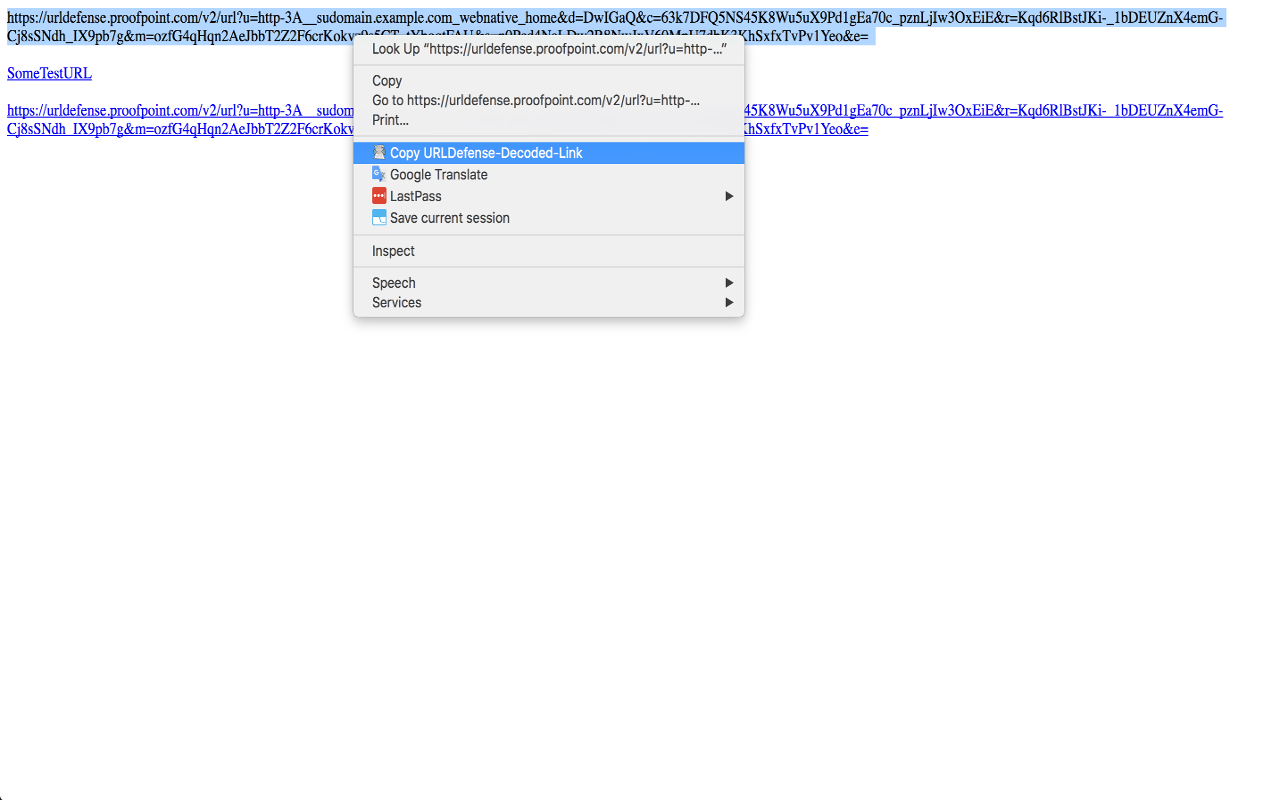
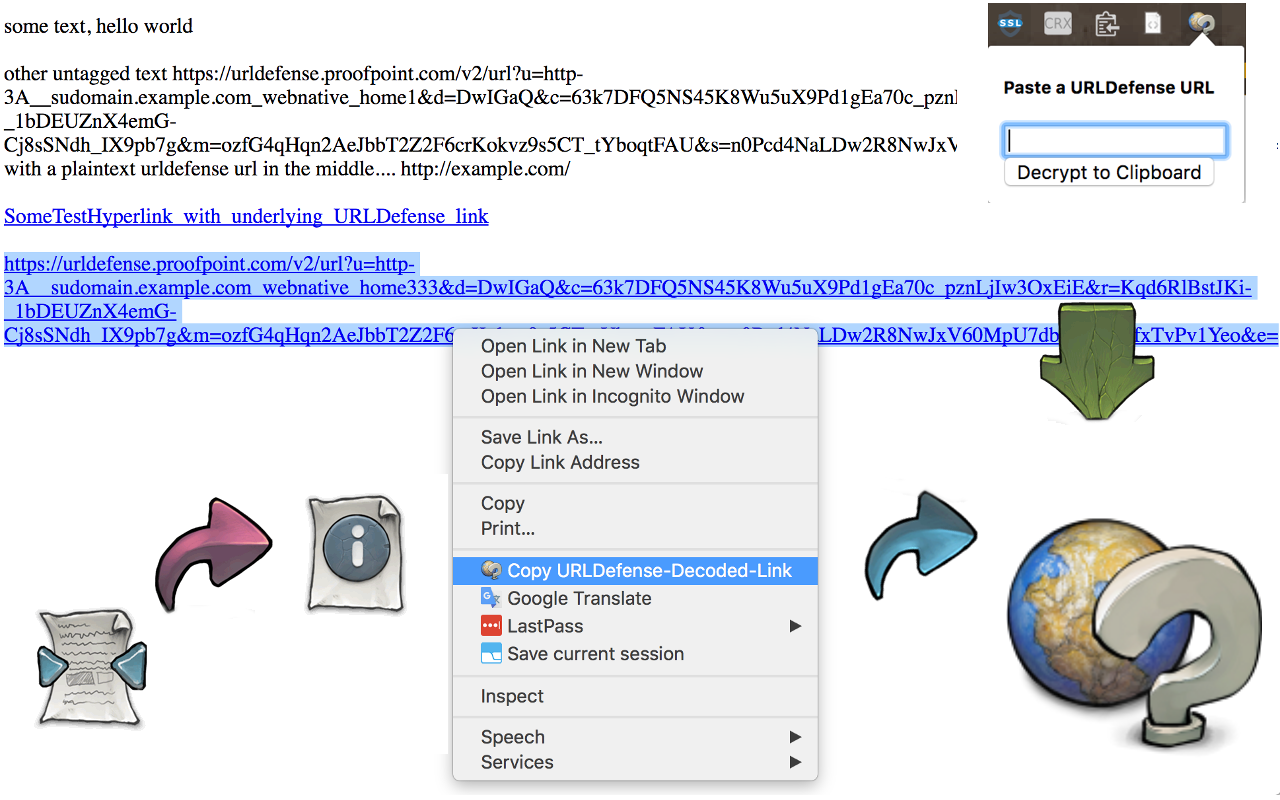
updated screenshots, made the readme shorter.

diff --git a/README.md b/README.md
@@ -4,13 +4,9 @@
 </div>
 
 ## Usage
-Right-Click a URLDefense encoded URL, or triple-click-select-all of a plaintext URLDefense URL, and right-click to get a Chrome Context Menu option called "Copy URLDefense-Decoded-Link". Click that menu item and the link will be copied to your clipboard.
+Right-Click a URLDefense encoded URL, or triple-click-select-all of a plaintext URLDefense URL, and right-click to get a Chrome Context Menu option called "Copy URLDefense-Decoded-Link". Click that menu item and the link will be copied to your clipboard. Or you can also manually paste encoded urls into the extension popup box from the toolbar.
 
 ![Screenshot](assets/URLDefenseDecoder_screenshot01.png)
-
-Or you can also manually paste encoded urls into the extension popup box from the toolbar.
-
-![Screenshot](assets/URLDefenseDecoder_screenshot02.png)
 
 ## A Note on Permissions
 
